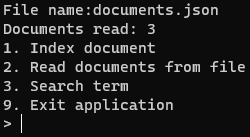
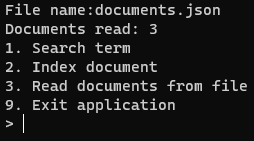
Replaced screenshots and changed Usage paragraph for changed order of commands.

diff --git a/README.md b/README.md
@@ -24,7 +24,7 @@ A main menu will show, like below:
 Selection of a specific option is being done by entering it's number.  
 After command execution program returns to the main menu (unless it was an exit command)
 
-* For indexing by menu option, select option 1. You will be prompted for document ID and it's content  
+* To index a document, select option 1. You will be prompted for document ID and it's content  
 
 ![Index by menu](doc/img/index-by-menu.png "Index by menu")  
 
@@ -32,7 +32,7 @@ After command execution program returns to the main menu (unless it was an exit 
 
 ![Read documents from file](doc/img/read-documents-from-files.png "Read documents from file")  
 
-* In order to make a search query, select option 3, and type the keyword.
+* In order to make a search query, select option 1, and type the keyword.
 
 ![Search output](doc/img/search-output.png "Read documents from file")  
 
